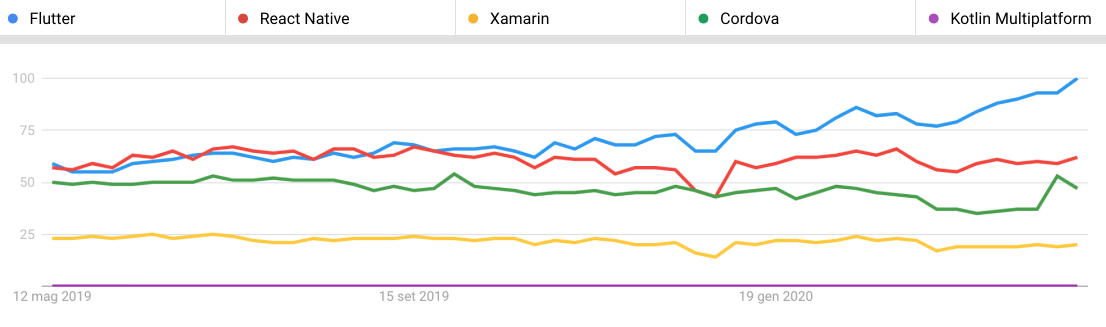
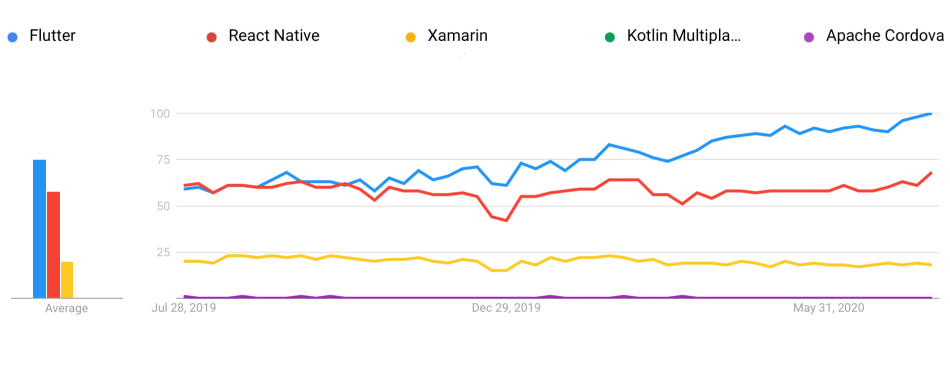
Fix google trend image

diff --git a/content/posts/drafts/my-2cents-cross-platform.md b/content/posts/drafts/my-2cents-cross-platform.md
@@ -9,15 +9,15 @@ tags: [Cross Platform]
 
 During my journey as mobile developer, I had the chance to try and give a look to some cross platform solutions both for work and fun reasons. Today, I want to share my toughts and considerations about them and why/when you should use cross-platform. I hope that these toughts will be helpful to anyone that is in the process of choosing an right solution for their product.
 
+I'm writing something in this article
+
 > **Disclaimer**: in this article I will share some opinions based on my experience and they can be applicable to your situation or not.  If you want to share your considerations, feel free to drop a comment below or tweet me [@marcoGomier](https://twitter.com/marcoGomier)
 
 ## Possible solutions
 
 Out in the wild there are plenty of differerent cross-platform solutions. However, in this post I will focus only on the most used (that are also the one that provide an experience as much close as the native one) and the most promising. 
 
-TODO: redo the picture!! Just cordova is the city!!!!
-
-{{< figure src="/img/2cents-cross/google-trend-cross.png" alt="image" caption="Google Trends for the past 12 months. *Last update May 2020*" >}}
+{{< figure src="/img/2cents-cross/google-trend-cross.png" alt="image" caption="Google Trends for the past 12 months. *Last update July 2020*" >}}
 
 First of all, I've excluded all the solutions that uses web technologies to render the app in a WebView (like [Cordova](https://cordova.apache.org/) or [Ionic](https://ionicframework.com/)) because they don't have adequate performances. 
 
